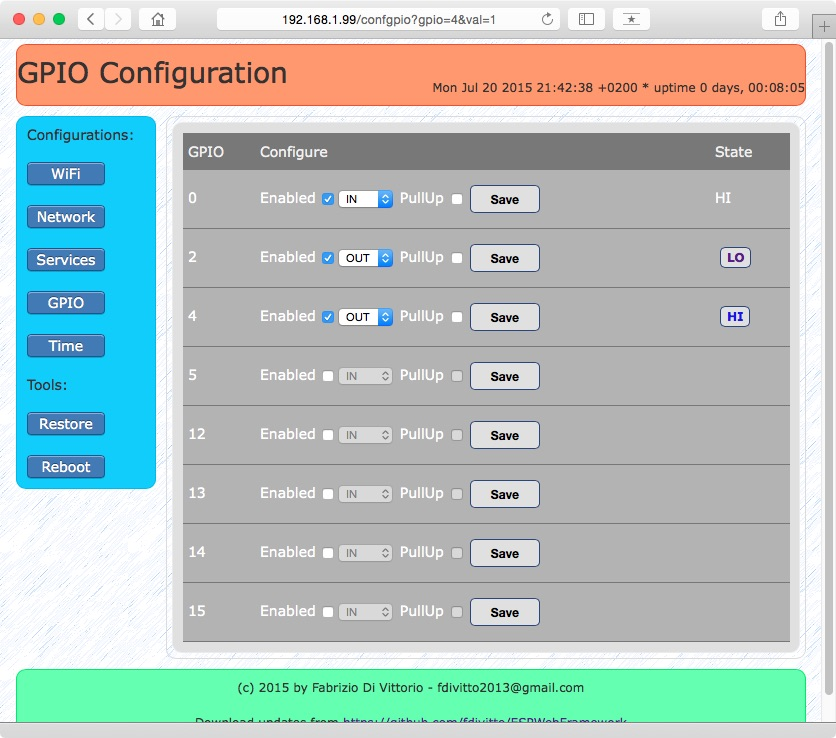
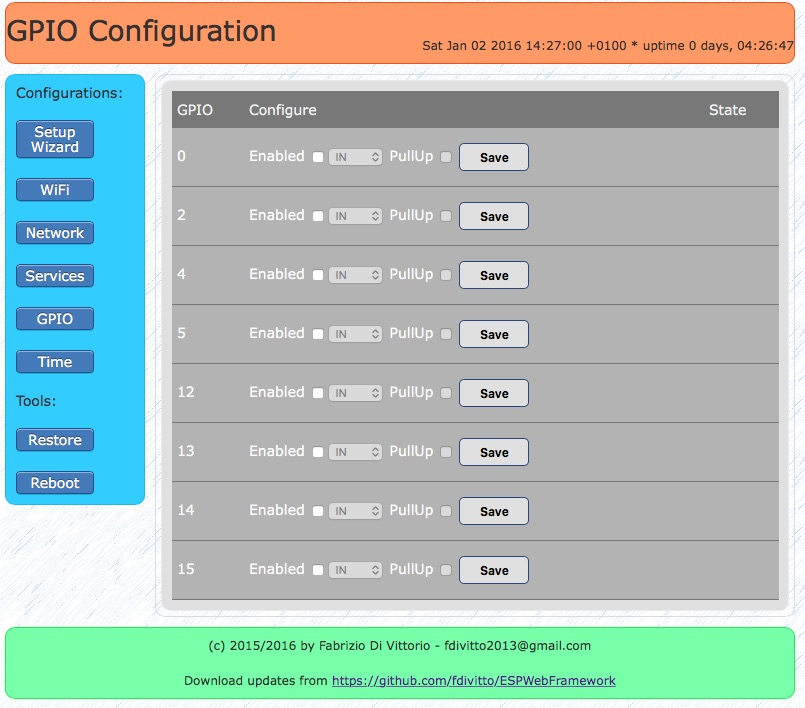
Updated screenshots

diff --git a/README.md b/README.md
@@ -54,17 +54,14 @@ make flash PORT=COM7
 
 ####Here is some screenshots:
 
-WiFi configuration:
-![ss1](https://github.com/fdivitto/ESPWebFramework/raw/master/projects/ESPWebFramework/docs/images/wificonf.jpg)
+WiFi configuration (Client Mode):
+![ss1](https://github.com/fdivitto/ESPWebFramework/raw/master/projects/ESPWebFramework/docs/images/wificonf2.jpg)
 
-WiFi configuration - access points scan:
-![ss2](https://github.com/fdivitto/ESPWebFramework/raw/master/projects/ESPWebFramework/docs/images/wifiscan.jpg)
+WiFi configuration - Access Points:
+![ss2](https://github.com/fdivitto/ESPWebFramework/raw/master/projects/ESPWebFramework/docs/images/wificonf1.jpg)
 
-Network configuration (1/2):
-![ss3](https://github.com/fdivitto/ESPWebFramework/raw/master/projects/ESPWebFramework/docs/images/netconf1.jpg)
-
-Network configuration (2/2):
-![ss3](https://github.com/fdivitto/ESPWebFramework/raw/master/projects/ESPWebFramework/docs/images/netconf2.jpg)
+Network configuration:
+![ss3](https://github.com/fdivitto/ESPWebFramework/raw/master/projects/ESPWebFramework/docs/images/netconf.jpg)
 
 Web server, UART and services configuration:
 ![ss4](https://github.com/fdivitto/ESPWebFramework/raw/master/projects/ESPWebFramework/docs/images/confserv.jpg)
@@ -74,3 +71,6 @@ Date and Time configuration:
 
 GPIO configuration and control:
 ![ss6](https://github.com/fdivitto/ESPWebFramework/raw/master/projects/ESPWebFramework/docs/images/confgpio.jpg)
+
+Setup Wizard (first page):
+![ss6](https://github.com/fdivitto/ESPWebFramework/raw/master/projects/ESPWebFramework/docs/images/wizard.jpg)
